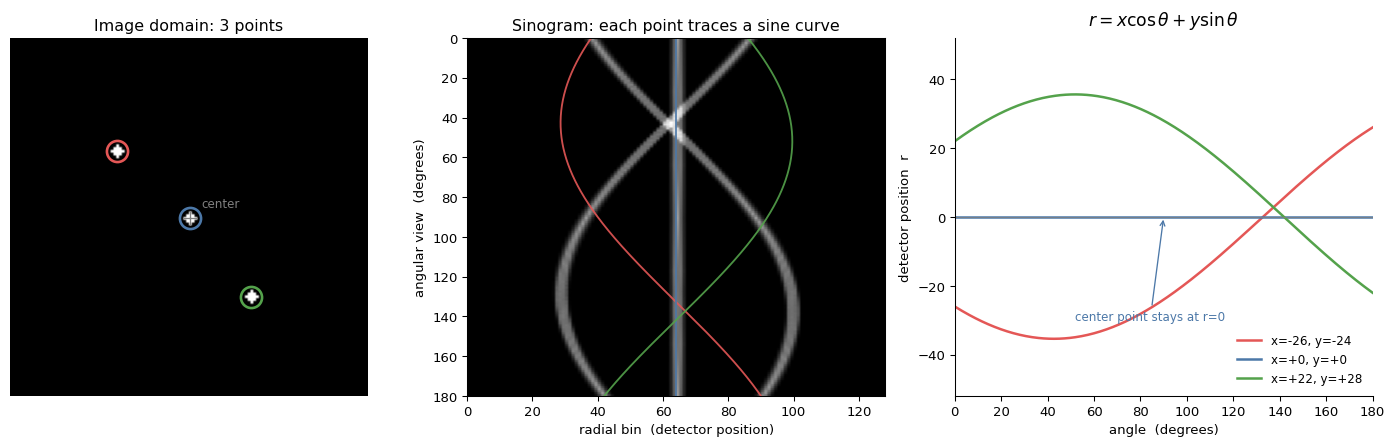
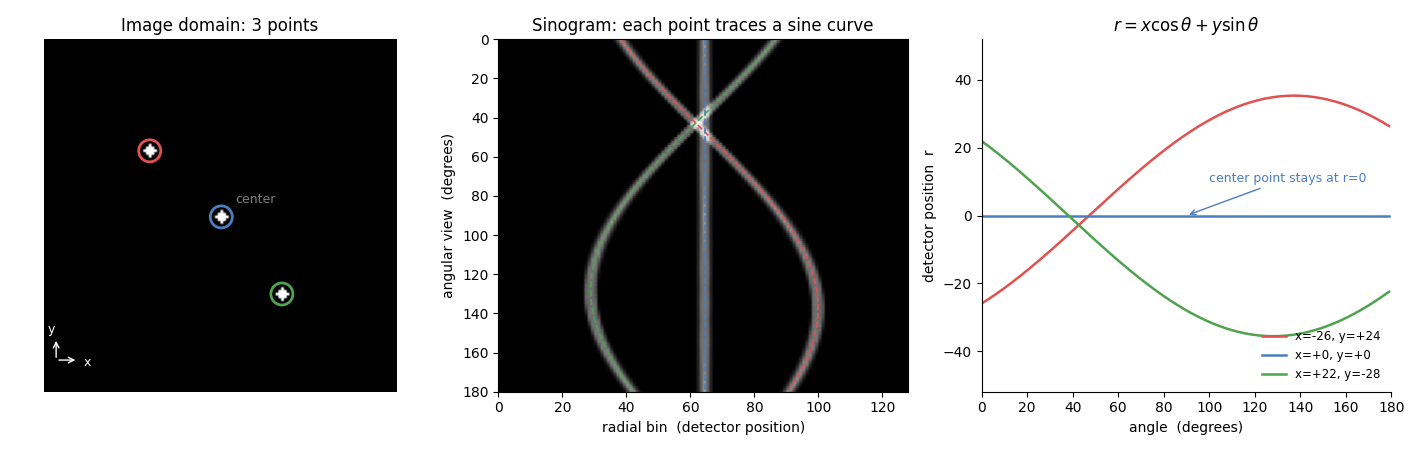
Fix the Radon intuition figure so the formula curves match the sinogram
The overlay and legend used the array row index as y (pointing down),
so the plotted curves were mirrored against the actual sinogram traces.
Use a y-up convention, draw the overlay dashed, note the convention in the
post, and drop a duplicated sentence.

Claude-Session: https://claude.ai/code/session_01ENEWbguaP7rmWMhF67cmjz

diff --git a/_posts/2026-09-22-pet-sinogram-preprocessing.md b/_posts/2026-09-22-pet-sinogram-preprocessing.md
@@ -56,9 +56,9 @@ _512×512 영상과 그에 대응하는 672 view × 512 bin sinogram_
 이름이 왜 *sino*gram인지는 점 하나를 넣어보면 바로 보입니다.
 
 ![Radon 변환 직관](/assets/img/posts/pet-preprocessing/radon-intuition.png)
-_점 하나가 sinogram에서 사인 곡선을 그립니다. 오른쪽은 그 곡선을 수식으로 그린 것으로, 가운데 그림의 실제 sinogram과 정확히 겹칩니다._
+_점 하나가 sinogram에서 사인 곡선을 그립니다. 오른쪽은 그 곡선을 수식으로 그린 것이고, 가운데 그림의 점선이 같은 곡선을 실제 sinogram 위에 겹쳐 그린 것입니다._
 
-중심에서 `(x, y)`만큼 떨어진 점은, 검출기를 각도 `theta`만큼 돌렸을 때 다음 위치에 기록됩니다.
+중심에서 `(x, y)`만큼 떨어진 점은, 검출기를 각도 `theta`만큼 돌렸을 때 다음 위치에 기록됩니다. 여기서 `y`는 수학 좌표처럼 **위쪽이 +** 입니다.
 
 ```
 r = x·cos(theta) + y·sin(theta)
@@ -66,9 +66,10 @@ r = x·cos(theta) + y·sin(theta)
 
 `theta`를 0에서 180도까지 훑으면 `r`이 **사인 곡선**을 그립니다. 그래서 sinogram입니다. 중심에 있는 점은 아무리 돌려도 `r = 0`이라 직선이 되고요.
 
-이게 단순한 관찰처럼 보이지만, 사실 이 분야 딥러닝 설계의 출발점입니다. **영상의 어느 픽셀이 sinogram의 어느 위치에 대응하는지가 기하학적으로 이미 결정돼 있다**는 뜻이기 때문입니다. AUTOMAP이나 DeepPET은 이 대응 관계를 Fully-Connected Layer로 *학습*시키는데, 그래서 파라미터가 6,360만 개까지 불어납니다. 이미 아는 값을 굳이 배우게 하는 셈입니다.
+> numpy 배열은 행 번호가 **아래로** 커지기 때문에, 배열 인덱스로 좌표를 잡을 때는 `y = 중심행 − 행번호`로 뒤집어야 합니다. 이걸 빠뜨리면 수식 곡선이 실제 sinogram과 어긋납니다. scikit-image의 `radon()`도 이 규칙을 따릅니다.
+{: .prompt-tip }
 
-축의 의미는 이렇습니다.
+이게 단순한 관찰처럼 보이지만, 사실 이 분야 딥러닝 설계의 출발점입니다. **영상의 어느 픽셀이 sinogram의 어느 위치에 대응하는지가 기하학적으로 이미 결정돼 있다**는 뜻이기 때문입니다. AUTOMAP이나 DeepPET은 이 대응 관계를 Fully-Connected Layer로 *학습*시키는데, 그래서 파라미터가 6,360만 개까지 불어납니다. 이미 아는 값을 굳이 배우게 하는 셈입니다.
 
 축의 의미는 이렇습니다.
 
